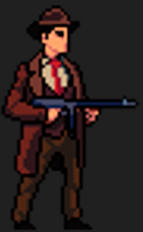
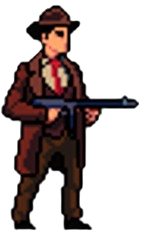
GIOCO FINITO animazioni personaggi animazione sparo animazione attacco zombi rumore sparo schermata iniziale e finale

diff --git a/gioco.py b/gioco.py
@@ -16,37 +16,121 @@ LEVELS = 5
 LANE_Y = SCREEN_HEIGHT // 5
 
 MAX_BULLETS = 2
-SHOOT_COOLDOWN = 0.25  # cooldown minimo tra un colpo e l'altro
+SHOOT_COOLDOWN = 0.25
 
 
 # ---------------- PLAYER ----------------
 class Player(arcade.Sprite):
     def __init__(self):
-        super().__init__("personaggio.png", scale=1)
+        super().__init__(scale=3.5)
+
+        self.textures_walk = [
+            arcade.load_texture("walkk1.png"),
+            arcade.load_texture("walkk2.png"),
+            arcade.load_texture("walkk3.png"),
+            arcade.load_texture("walkk4.png"),
+            arcade.load_texture("walkk5.png"),
+            arcade.load_texture("walkk6.png"),
+            arcade.load_texture("walkk7.png"),
+            arcade.load_texture("walkk8.png"),
+        ]
+
+        self.textures_shoot = [
+            arcade.load_texture("Shoot1.png"),
+            arcade.load_texture("Shoot2.png"),
+            arcade.load_texture("Shoot3.png"),
+        ]
+
+        self.texture = self.textures_walk[0]
+
+        self.cur_texture = 0
+        self.anim_timer = 0
+
         self.change_x = 0
+        self.is_shooting = False
 
     def update(self, delta_time):
         self.center_x += self.change_x
         self.center_y = LANE_Y
         self.center_x = max(0, min(self.center_x, SCREEN_WIDTH))
 
+        self.anim_timer += delta_time
+
+        if self.is_shooting:
+            if self.anim_timer > 0.08:
+                self.anim_timer = 0
+                self.cur_texture += 1
+
+                if self.cur_texture >= len(self.textures_shoot):
+                    self.is_shooting = False
+                    self.cur_texture = 0
+                    self.texture = self.textures_walk[0]
+                else:
+                    self.texture = self.textures_shoot[self.cur_texture]
+        else:
+            if self.change_x != 0:
+                if self.anim_timer > 0.1:
+                    self.anim_timer = 0
+                    self.cur_texture = (self.cur_texture + 1) % len(self.textures_walk)
+                    self.texture = self.textures_walk[self.cur_texture]
+
 
 # ---------------- ZOMBIE ----------------
 class Zombie(arcade.Sprite):
     def __init__(self, level):
-        super().__init__("zombie.png", scale=1)
+        super().__init__(scale=3.5)
+
+        self.textures_walk = [
+            arcade.load_texture("Walk1.png"),
+            arcade.load_texture("Walk2.png"),
+            arcade.load_texture("Walk3.png"),
+            arcade.load_texture("Walk4.png"),
+            arcade.load_texture("Walk5.png"),
+            arcade.load_texture("Walk6.png"),
+            arcade.load_texture("Walk7.png"),
+            arcade.load_texture("Walk8.png"),
+        ]
+
+        self.textures_attack = [
+            arcade.load_texture("Attack1.png"),
+            arcade.load_texture("Attack2.png"),
+            arcade.load_texture("Attack3.png"),
+            arcade.load_texture("Attack4.png"),
+        ]
+
+        self.texture = self.textures_walk[0]
+
+        self.cur_texture = 0
+        self.anim_timer = 0
+
         self.speed = ZOMBIE_BASE_SPEED + (level * 0.5)
         self.life = 100 + (level * 20)
         self.center_y = LANE_Y
 
+        self.is_attacking = False
+
     def update(self, delta_time):
-        self.center_x -= self.speed
+        if not self.is_attacking:
+            self.center_x -= self.speed
+
+        self.anim_timer += delta_time
+
+        if self.is_attacking:
+            if self.anim_timer > 0.15:
+                self.anim_timer = 0
+                self.cur_texture = (self.cur_texture + 1) % len(self.textures_attack)
+                self.texture = self.textures_attack[self.cur_texture]
+        else:
+            if self.anim_timer > 0.15:
+                self.anim_timer = 0
+                self.cur_texture = (self.cur_texture + 1) % len(self.textures_walk)
+                self.texture = self.textures_walk[self.cur_texture]
 
 
 # ---------------- PROIETTILE ----------------
 class Bullet(arcade.Sprite):
     def __init__(self):
-        super().__init__("proiettile.png", scale=0.8)
+        super().__init__("proiettile.png", scale=0.2)
         self.danno = 50
 
     def update(self, delta_time):
@@ -59,6 +143,8 @@ class Game(arcade.Window):
     def __init__(self):
         super().__init__(SCREEN_WIDTH, SCREEN_HEIGHT, SCREEN_TITLE)
 
+        self.state = "MENU"
+
         self.player = None
         self.player_list = None
         self.zombie_list = None
@@ -70,14 +156,12 @@ class Game(arcade.Window):
 
         self.spawn_timer = 0
 
-        # cooldown sparo
         self.can_shoot = True
         self.shoot_timer = 0
 
         self.background = None
 
     def setup(self):
-        # carica sfondo
         self.background = arcade.load_texture("sfondo.png")
 
         self.player_list = arcade.SpriteList()
@@ -86,8 +170,13 @@ class Game(arcade.Window):
 
         self.player = Player()
         self.player.center_x = 100
-        self.player.center_y = LANE_Y
         self.player_list.append(self.player)
+
+        self.level = 1
+        self.score = 0
+        self.hp = 3
+
+        self.spawn_timer = 0
 
         self.spawn_wave()
 
@@ -98,46 +187,75 @@ class Game(arcade.Window):
     def spawn_zombie(self):
         zombie = Zombie(self.level)
         zombie.center_x = random.randint(SCREEN_WIDTH, SCREEN_WIDTH + 300)
-        zombie.center_y = LANE_Y
         self.zombie_list.append(zombie)
 
     # ---------------- DRAW ----------------
     def on_draw(self):
         self.clear()
-        # disegna sfondo
-        arcade.draw_texture_rect(
-            self.background,
-            arcade.XYWH(SCREEN_WIDTH/2, SCREEN_HEIGHT/2, SCREEN_WIDTH, SCREEN_HEIGHT)
-        )
 
-        self.player_list.draw()
-        self.zombie_list.draw()
-        self.bullet_list.draw()
+        if self.state == "MENU":
+            arcade.draw_text("ZOMBIE SHOOTER",
+                             SCREEN_WIDTH/2, SCREEN_HEIGHT/2 + 50,
+                             arcade.color.WHITE, 40, anchor_x="center")
 
-        arcade.draw_text(f"Livello: {self.level}", 10, 680, arcade.color.WHITE, 16)
-        arcade.draw_text(f"Punti: {self.score}", 10, 700, arcade.color.WHITE, 16)
-        arcade.draw_text(f"HP: {self.hp}", 10, 660, arcade.color.RED, 16)
+            arcade.draw_text("Premi ENTER per iniziare",
+                             SCREEN_WIDTH/2, SCREEN_HEIGHT/2,
+                             arcade.color.GRAY, 20, anchor_x="center")
+            return
+
+        if self.state == "GAME":
+            arcade.draw_texture_rect(
+                self.background,
+                arcade.XYWH(SCREEN_WIDTH/2, SCREEN_HEIGHT/2, SCREEN_WIDTH, SCREEN_HEIGHT)
+            )
+
+            self.player_list.draw()
+            self.zombie_list.draw()
+            self.bullet_list.draw()
+
+            arcade.draw_text(f"Livello: {self.level}", 10, 680, arcade.color.WHITE, 16)
+            arcade.draw_text(f"Punti: {self.score}", 10, 700, arcade.color.WHITE, 16)
+            arcade.draw_text(f"HP: {self.hp}", 10, 660, arcade.color.RED, 16)
+
+        elif self.state == "GAME_OVER":
+            arcade.draw_text("GAME OVER",
+                             SCREEN_WIDTH/2, SCREEN_HEIGHT/2 + 50,
+                             arcade.color.RED, 40, anchor_x="center")
+
+            arcade.draw_text("Premi R per ricominciare",
+                             SCREEN_WIDTH/2, SCREEN_HEIGHT/2,
+                             arcade.color.WHITE, 20, anchor_x="center")
+
+        elif self.state == "WIN":
+            arcade.draw_text("HAI VINTO!",
+                             SCREEN_WIDTH/2, SCREEN_HEIGHT/2 + 50,
+                             arcade.color.GREEN, 40, anchor_x="center")
+
+            arcade.draw_text("Premi R per rigiocare",
+                             SCREEN_WIDTH/2, SCREEN_HEIGHT/2,
+                             arcade.color.WHITE, 20, anchor_x="center")
 
     # ---------------- UPDATE ----------------
     def on_update(self, delta_time):
+
+        if self.state != "GAME":
+            return
+
         self.player_list.update()
         self.zombie_list.update()
         self.bullet_list.update()
 
-        # gestisco cooldown sparo
         if not self.can_shoot:
             self.shoot_timer += delta_time
             if self.shoot_timer >= SHOOT_COOLDOWN:
                 self.can_shoot = True
                 self.shoot_timer = 0
 
-        # spawn continuo zombie
         self.spawn_timer += delta_time
         if self.spawn_timer > max(0.5, 2 - self.level * 0.2):
             self.spawn_timer = 0
             self.spawn_zombie()
 
-        # collisioni proiettili
         for bullet in self.bullet_list:
             hit_list = arcade.check_for_collision_with_list(bullet, self.zombie_list)
 
@@ -149,49 +267,66 @@ class Game(arcade.Window):
                     zombie.remove_from_sprite_lists()
                     self.score += 1
 
-        # rimuovo proiettili fuori schermo
         for bullet in self.bullet_list:
             if bullet.center_x > SCREEN_WIDTH:
                 bullet.remove_from_sprite_lists()
 
-        # collisione player-zombie
-        hit_list = arcade.check_for_collision_with_list(self.player, self.zombie_list)
-        for zombie in hit_list:
-            zombie.remove_from_sprite_lists()
-            self.hp -= 1
-            print("HP:", self.hp)
+        for zombie in self.zombie_list:
+            if abs(zombie.center_x - self.player.center_x) < 50:
+                zombie.is_attacking = True
 
-            if self.hp <= 0:
-                print("GAME OVER")
-                arcade.close_window()
+                if random.random() < 0.02:
+                    self.hp -= 1
 
-        # aumento livello
+                    if self.hp <= 0:
+                        self.state = "GAME_OVER"
+            else:
+                zombie.is_attacking = False
+
         if self.score >= self.level * 10:
             self.level += 1
-            print("Livello:", self.level)
 
             if self.level > LEVELS:
-                print("HAI VINTO!")
-                arcade.close_window()
+                self.state = "WIN"
 
     # ---------------- INPUT ----------------
     def on_key_press(self, key, modifiers):
+
+        if key == arcade.key.ENTER and self.state == "MENU":
+            self.state = "GAME"
+            self.setup()
+
+        if key == arcade.key.R and self.state in ("GAME_OVER", "WIN"):
+            self.state = "GAME"
+            self.setup()
+
+        if self.state != "GAME":
+            return
+
         if key == arcade.key.A:
             self.player.change_x = -PLAYER_SPEED
         elif key == arcade.key.D:
             self.player.change_x = PLAYER_SPEED
 
-        # sparo moderato: cooldown + limite
         if key == arcade.key.SPACE:
             if len(self.bullet_list) < MAX_BULLETS and self.can_shoot:
                 bullet = Bullet()
                 bullet.center_x = self.player.center_x + self.player.width // 2 + 10
                 bullet.center_y = LANE_Y
                 self.bullet_list.append(bullet)
+
                 arcade.Sound(SOUND_SHOT).play()
+
+                self.player.is_shooting = True
+                self.player.cur_texture = 0
+                self.player.anim_timer = 0
+
                 self.can_shoot = False
 
     def on_key_release(self, key, modifiers):
+        if self.state != "GAME":
+            return
+
         if key in (arcade.key.A, arcade.key.D):
             self.player.change_x = 0
 
@@ -199,7 +334,6 @@ class Game(arcade.Window):
 # ---------------- MAIN ----------------
 def main():
     game = Game()
-    game.setup()
     arcade.run()
 
 
